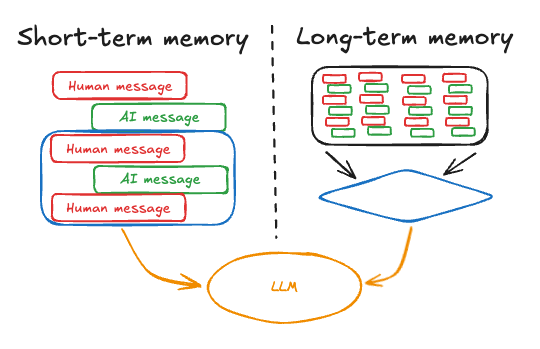
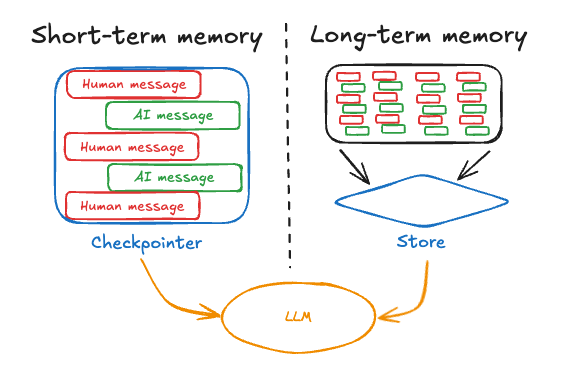
cr

diff --git a/docs/docs/concepts/memory.md b/docs/docs/concepts/memory.md
@@ -5,9 +5,9 @@
 Memory in the context of LLMs and AI applications refers to the ability to process, retain, and utilize information from past interactions or data sources. 
 We break this guide into two parts: short term memory and long-term memory.
 
-By **short-term memory** we mean memory that persists **within** a single conversation (or interaction) with a user.
+By **short-term memory** we mean memory that persists **within** a single conversation (or interaction) with a user. In LangGraph, we manage short-term memory with the concept of [threads](persistence.md#threads) and [checkpointers](persistence.md#checkpoints)
 
-By **long-term memory** we mean memory that persists **across** conversations (or interactions) with a user.
+By **long-term memory** we mean memory that persists **across** conversations (or interactions) with a user. In LangGraph, we manage long-term memory with [stores](persistence.md#memory-store)
 
 Both are important to understand and implement for your application.
 
